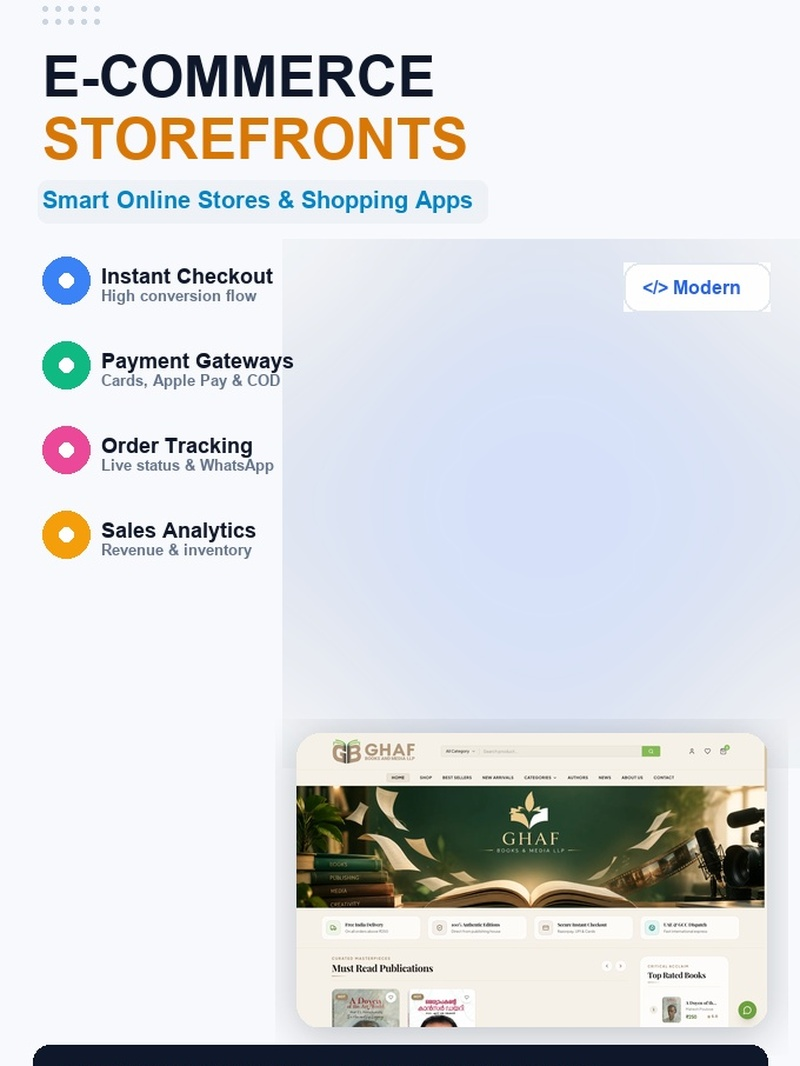
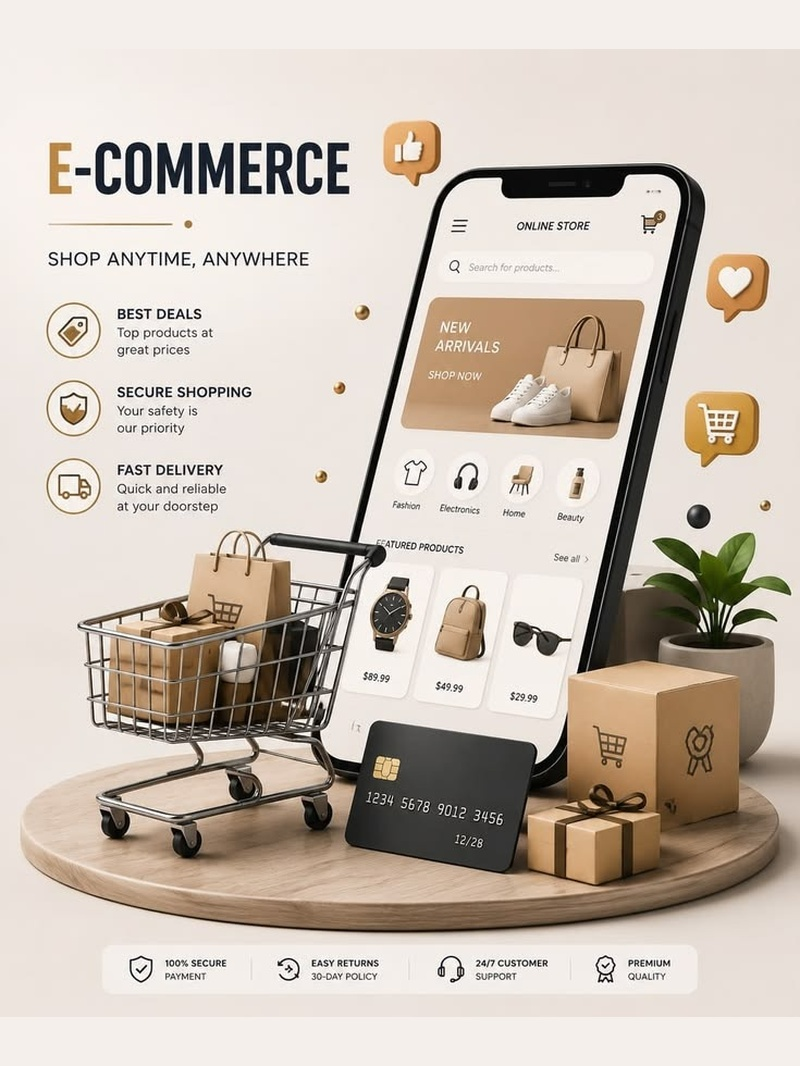
feat(hero): update E-Commerce and Desktop App posters with high-fidelity commercial 3D artwork

diff --git a/src/components/home/HeroCarousel.tsx b/src/components/home/HeroCarousel.tsx
@@ -54,19 +54,19 @@ export const heroSlides: HeroSlide[] = [
     id: 'slide-ecommerce',
     slideNumber: '05',
     category: 'E-COMMERCE STOREFRONTS',
-    title: 'E-Commerce Storefronts',
-    tagline: 'Smart Online Stores &bull; Higher Sales',
+    title: 'E-Commerce Storefronts & Shopping Apps',
+    tagline: 'Shop Anytime, Anywhere &bull; Best Deals &amp; Secure Payments',
     image: '/assets/hero/hero-poster-ecommerce.jpg',
-    accentColor: '#D97706',
+    accentColor: '#C28E5A',
   },
   {
     id: 'slide-desktop-apps',
     slideNumber: '06',
     category: 'DESKTOP APPLICATIONS',
-    title: 'Desktop Software for PC & Mac',
-    tagline: 'High Performance &bull; Offline Architecture',
+    title: 'Desktop App Development',
+    tagline: 'Custom Software for Smarter, Faster &amp; More Productive Businesses',
     image: '/assets/hero/hero-poster-desktop.jpg',
-    accentColor: '#0284C7',
+    accentColor: '#2563EB',
   },
 ];
 
